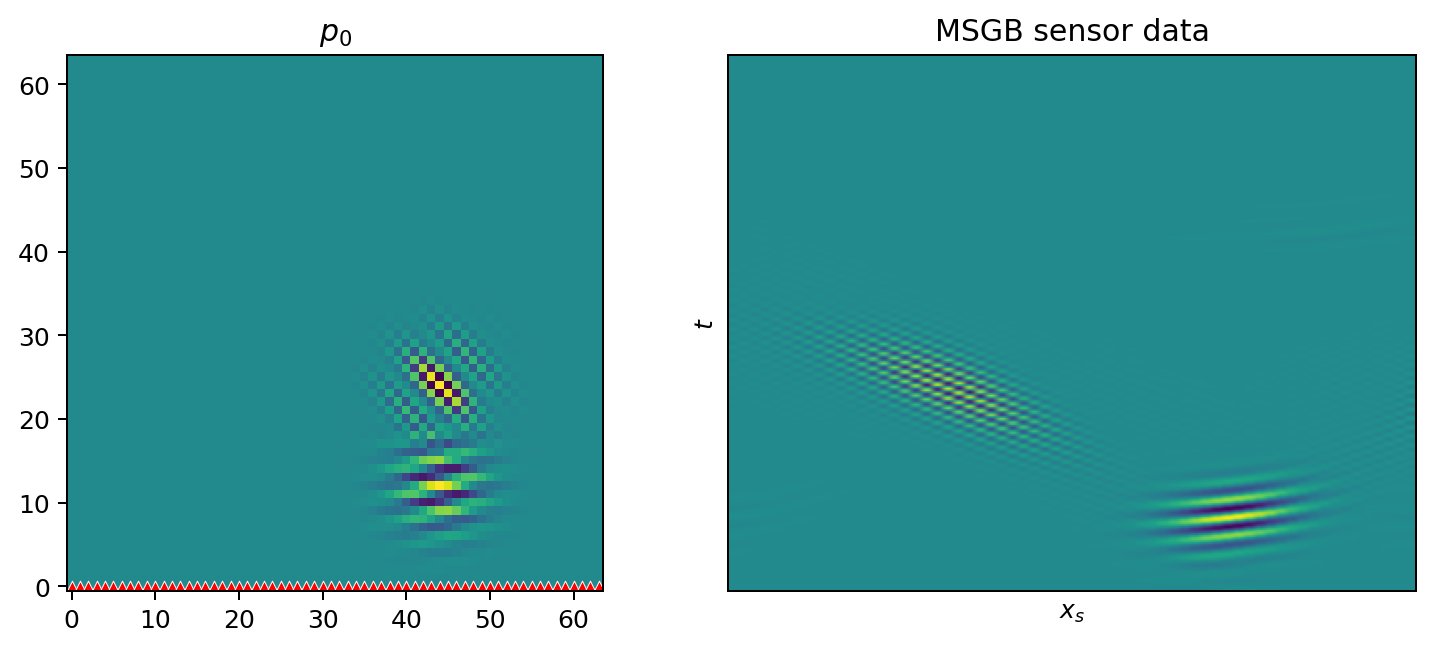
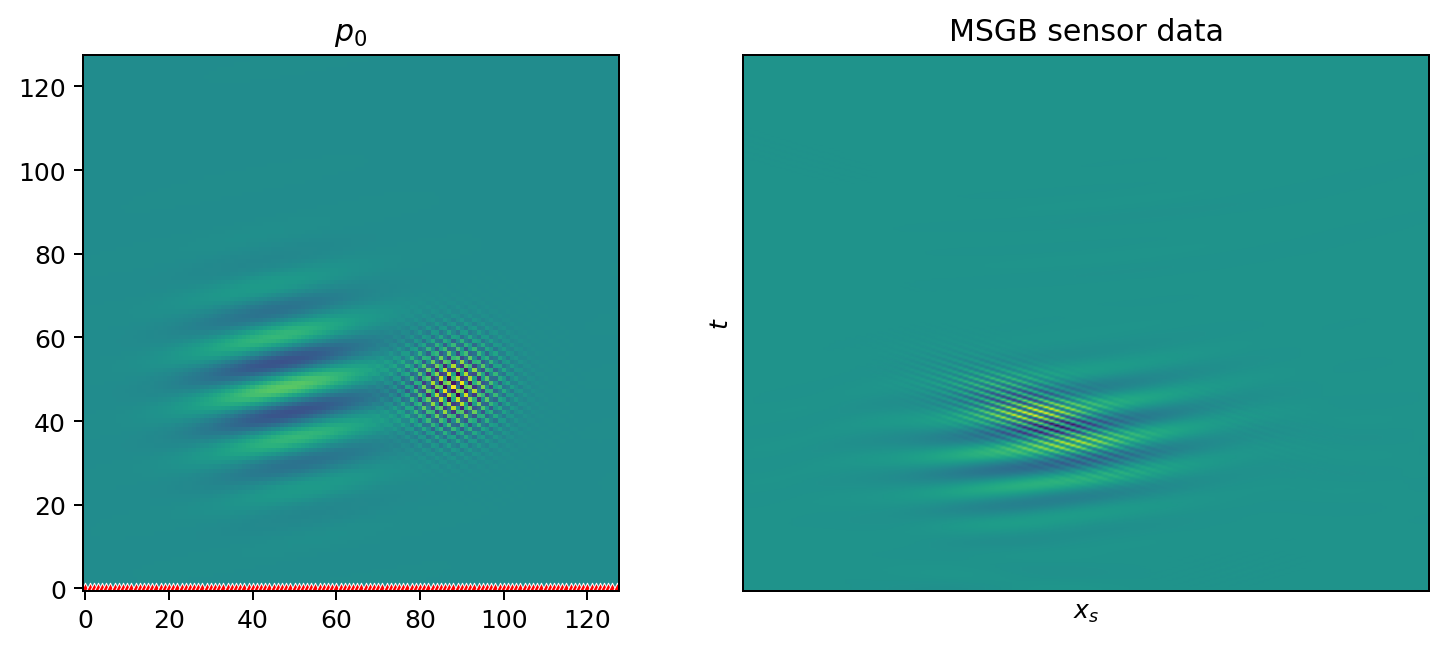
adding maths rendering, fixing the figure in the readme hopefully for the last time.

diff --git a/docs/javascripts/mathjax.js b/docs/javascripts/mathjax.js
@@ -1,0 +1,12 @@
+window.MathJax = {
+  tex: {
+    inlineMath: [["\\(", "\\)"]],
+    displayMath: [["\\[", "\\]"]],
+    processEscapes: true,
+    processEnvironments: true,
+  },
+  options: {
+    ignoreHtmlClass: ".*|",
+    processHtmlClass: "arithmatex",
+  },
+};

diff --git a/README.md b/README.md
@@ -50,33 +50,33 @@ from beamax.solvers import MSGBSolver
 jax.config.update("jax_enable_x64", True)
 
 
-# Build two localized high-frequency wave packets.
-def make_initial_pressure(dyadic, redundancy=2):
+# Build the same two-packet p0 used by examples/forward/2d_forward.py.
+def make_initial_pressure(dyadic):
     grid = dyadic.fourier_meshgrid
     high = transforms.compute_frames(
         dyadic,
         125,
         jnp.array([11, 6]),
         grid,
-        redundancy,
-        "none",
+        redundancy=2,
+        windowing="none",
     )
     low = transforms.compute_frames(
         dyadic,
         44,
         jnp.array([11, 3]),
         grid,
-        redundancy,
-        "none",
+        redundancy=2,
+        windowing="none",
     )
 
     p0 = utils.unitary_ifft(high) + utils.unitary_ifft(low)
-    p0 = p0.T.real
-    return p0 / jnp.max(jnp.abs(p0))
+    p0 = p0 / jnp.max(jnp.abs(p0))
+    return p0.T.real
 
 
-# 1. Define a 64 x 64 PAT domain with homogeneous sound speed.
-n = (64, 64)
+# 1. Define a 128 x 128 PAT domain with homogeneous sound speed.
+n = (128, 128)
 domain = Domain(
     N=n,
     dx=(1.0e-4, 1.0e-4),
@@ -87,9 +87,9 @@ domain = Domain(
 
 # 2. Build the multiscale wave-packet transform and $p_0$.
 decomp = DyadicDecomposition(
-    num_levels=2,
+    num_levels=3,
     N=domain.N,
-    num_boxes_levels=(4, 8),
+    num_boxes_levels=(4, 8, 16),
     box_aspect_ratio=(1, 1),
 )
 wpt = MSWPT(decomp, redundancy=2, windowing="rectangular_mirror")
@@ -110,11 +110,11 @@ solver = MSGBSolver(
     sum_method="scan_real",
 )
 
-# 5. Apply the MSGB forward operator: $p_0$ -> sensor data.
+# 5. Apply the MSGB forward operator: p0 -> sensor data.
 msgb_data = solver.forward(p0, domain, sensors, ts, wpt)
 msgb_data = np.asarray(msgb_data.block_until_ready())
 
-# 6. Plot $p_0$ and MSGB sensor data.
+# 6. Plot p0 and MSGB sensor data.
 fig, axes = plt.subplots(1, 2, figsize=(8, 3.5), constrained_layout=True)
 axes[0].imshow(np.asarray(p0), origin="lower", cmap="viridis")
 sensor_rows, sensor_cols = np.nonzero(np.asarray(sensor_mask))

diff --git a/docs/readme.md b/docs/readme.md
@@ -50,33 +50,33 @@ from beamax.solvers import MSGBSolver
 jax.config.update("jax_enable_x64", True)
 
 
-# Build two localized high-frequency wave packets.
-def make_initial_pressure(dyadic, redundancy=2):
+# Build the same two-packet $p_0$ used by examples/forward/2d_forward.py.
+def make_initial_pressure(dyadic):
     grid = dyadic.fourier_meshgrid
     high = transforms.compute_frames(
         dyadic,
         125,
         jnp.array([11, 6]),
         grid,
-        redundancy,
-        "none",
+        redundancy=2,
+        windowing="none",
     )
     low = transforms.compute_frames(
         dyadic,
         44,
         jnp.array([11, 3]),
         grid,
-        redundancy,
-        "none",
+        redundancy=2,
+        windowing="none",
     )
 
     p0 = utils.unitary_ifft(high) + utils.unitary_ifft(low)
-    p0 = p0.T.real
-    return p0 / jnp.max(jnp.abs(p0))
+    p0 = p0 / jnp.max(jnp.abs(p0))
+    return p0.T.real
 
 
-# 1. Define a 64 x 64 PAT domain with homogeneous sound speed.
-n = (64, 64)
+# 1. Define a 128 x 128 PAT domain with homogeneous sound speed.
+n = (128, 128)
 domain = Domain(
     N=n,
     dx=(1.0e-4, 1.0e-4),
@@ -87,9 +87,9 @@ domain = Domain(
 
 # 2. Build the multiscale wave-packet transform and $p_0$.
 decomp = DyadicDecomposition(
-    num_levels=2,
+    num_levels=3,
     N=domain.N,
-    num_boxes_levels=(4, 8),
+    num_boxes_levels=(4, 8, 16),
     box_aspect_ratio=(1, 1),
 )
 wpt = MSWPT(decomp, redundancy=2, windowing="rectangular_mirror")